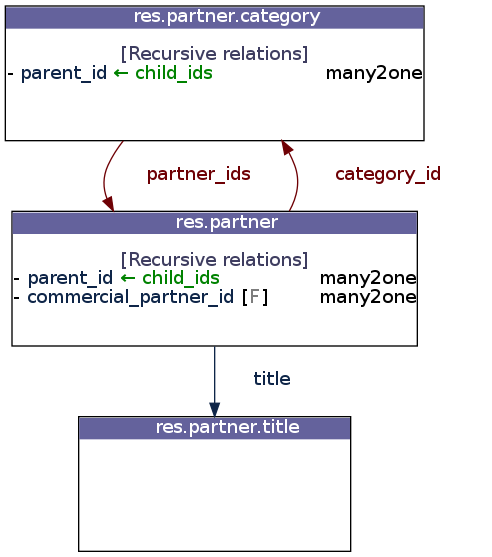
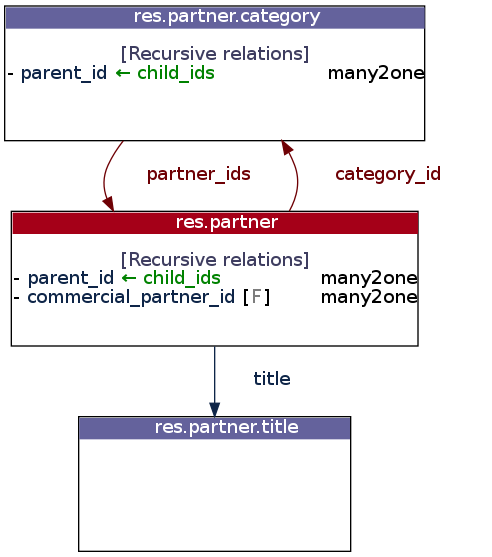
'inspect.relations': root models displayed in red by default

diff --git a/oerplib/service/inspect/relations.py b/oerplib/service/inspect/relations.py
@@ -99,6 +99,7 @@ class Relations(object):
             'color_many2one': '#0E2548',
             'color_one2many': '#008200',
             'color_many2many': '#6E0004',
+            'model_root_bgcolor_title': '#A50018',
             'model_bgcolor_title': '#64629C',
             'model_color_title': 'white',
             'model_color_subtitle': '#3E3D60',
@@ -295,9 +296,12 @@ class Relations(object):
                     type_=data2['type'])
                 relations_r.append(rel_r)
             # Generate the layout of the model
+            model_bgcolor_title = self._config['model_bgcolor_title']
+            if model in self._models:
+                model_bgcolor_title = self._config['model_root_bgcolor_title']
             tpl = TPL_MODEL.format(
                 model_color_title=self._config['model_color_title'],
-                model_bgcolor_title=self._config['model_bgcolor_title'],
+                model_bgcolor_title=model_bgcolor_title,
                 model_bgcolor=self._config['model_bgcolor'],
                 name=model,
                 attrs=''.join(attrs),

diff --git a/oerplib/service/inspect/__init__.py b/oerplib/service/inspect/__init__.py
@@ -77,6 +77,7 @@ class Inspect(object):
             - ``color_many2one: #0E2548``,
             - ``color_one2many: #008200``,
             - ``color_many2many: #6E0004``,
+            - ``model_root_bgcolor_title: #A50018``,
             - ``model_bgcolor_title: #64629C``,
             - ``model_color_title: white``,
             - ``model_color_subtitle': #3E3D60``,
